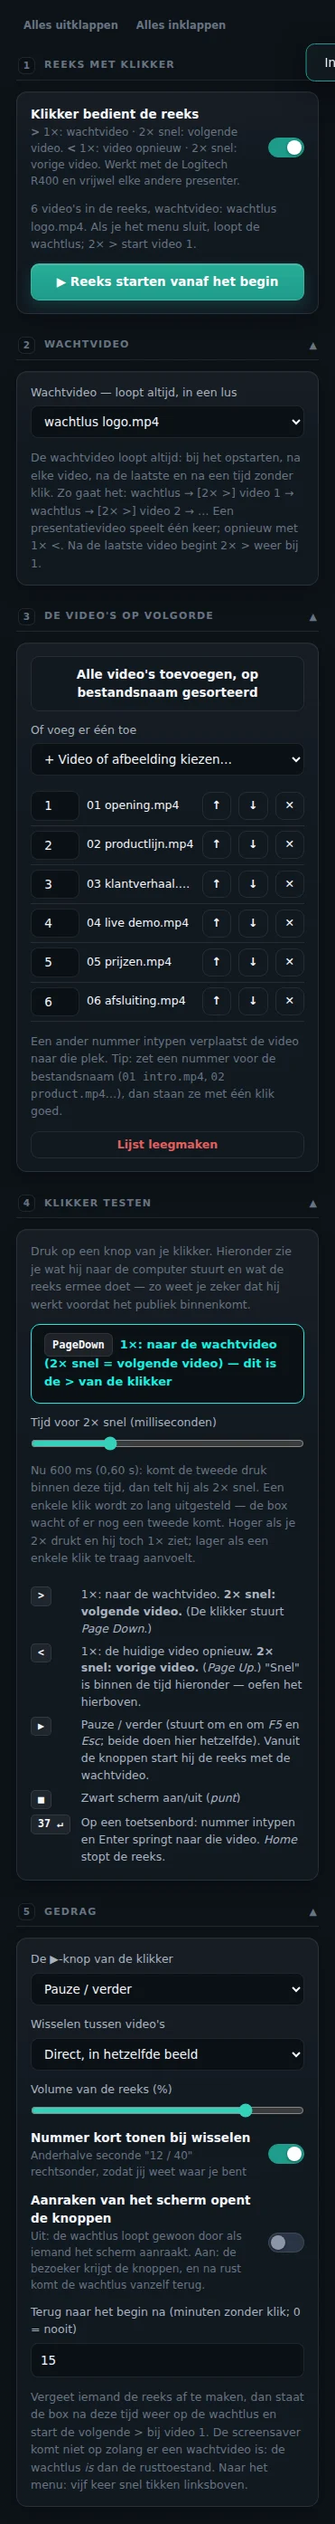
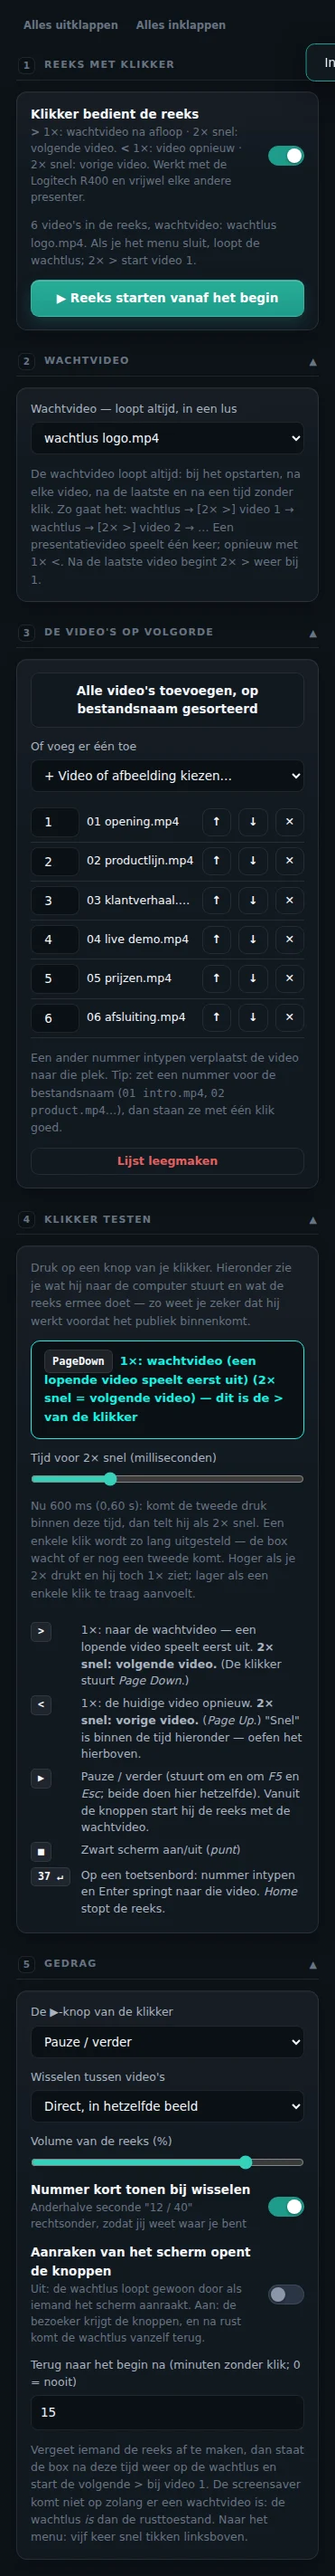
v2.23.0: wachtvideo pas na afloop, naadloos op het laatste beeld
Melding: de wachtvideo leek op de achtergrond door te draaien en startte
voordat de video afgelopen was. Hij draaide niet echt mee (in de test staat
hij stil op beeld 0 zolang een video speelt), maar hij kwam wel voortijdig in
beeld: 1× > knipte een lopende video af, en een dubbele klik die net te traag
was telde als twee keer 1×. Bij video's die gemaakt zijn om naadloos in de
wachtlus over te lopen is dat precies fout.

- 1× > onderbreekt een lopende video nooit meer: hij speelt uit en loopt dan
  over in de wachtvideo. Staat hij op pauze, dan speelt hij verder.
- De time-out "terug naar het begin" wacht ook tot een lopende video klaar is
  (eerder kon een video langer dan de time-out worden afgeknipt).
- De wissel naar de wachtvideo gebeurt op het laatste beeld zelf, bewaakt met
  requestVideoFrameCallback. De browser meldt 'ended' pas een paar beeldjes
  later en houdt zolang het laatste beeld vast — bij een naadloze overgang een
  zichtbare hapering. 'ended' blijft het vangnet. Gemeten: tussen het laatste
  videobeeld en de wachtlus zit precies één beeldje (33 ms bij 30 fps), het
  eerste beeld van de wachtlus.
- Deze wissel is altijd hard, ook als "zachte overgang" is ingesteld; een
  overvloeier verstoort de aansluiting.
- Een seconde voor het einde wordt de wachtvideo nog eens op beeld 0 gezet,
  zodat een minutenlang gepauzeerde speler wakker is. De Windows-app en beide
  startbestanden krijgen --disable-media-suspend, zodat gepauzeerde spelers
  niet inslapen.
[…]

diff --git a/docs/handleiding/index.html b/docs/handleiding/index.html
@@ -289,7 +289,7 @@ header.cover{padding-block:88px 8px}
   <b>wat</b> het doet, <b>waar</b> het staat en <b>waarom</b> het er zo uitziet.
   Alle afbeeldingen komen uit de draaiende software, niet uit een ontwerp.</p>
   <div class="meta">
-    <span>Versie 2.22.0</span><span>23 hoofdstukken</span><span>33 schermafbeeldingen</span>
+    <span>Versie 2.23.0</span><span>23 hoofdstukken</span><span>33 schermafbeeldingen</span>
     <span>Nederlands</span>
   </div>
 </header>
@@ -1444,7 +1444,7 @@ header.cover{padding-block:88px 8px}
         <text x="226" y="112">vanzelf</text><text x="458" y="112">vanzelf</text>
       </g>
       <text x="14" y="150" font-family="IBM Plex Sans, sans-serif" font-size="12" fill="currentColor" opacity=".7">
-        1× &gt; = terug naar de wachtvideo · 1× &lt; = video opnieuw · 2× &lt; = vorige video.
+        1× &gt; = wachtvideo na afloop · 1× &lt; = video opnieuw · 2× &lt; = vorige video.
       </text>
     </svg>
   </div>
@@ -1459,8 +1459,9 @@ header.cover{padding-block:88px 8px}
     <thead><tr><th>Knop</th><th>Stuurt</th><th>Wat de reeks ermee doet</th></tr></thead>
     <tbody>
       <tr><td><b>&gt;</b> (rechts)</td><td><code>Page Down</code></td>
-        <td><b>1&times;: naar de wachtvideo.</b> Loopt er een video, dan stopt die en komt de
-        wachtlus. <b>2&times; snel: volgende video.</b></td></tr>
+        <td><b>1&times;: wachtvideo.</b> Een lopende video wordt nooit onderbroken: hij speelt
+        uit en loopt dan naadloos over in de wachtlus. Staat hij op pauze, dan speelt hij verder.
+        <b>2&times; snel: volgende video.</b></td></tr>
       <tr><td><b>&lt;</b> (links)</td><td><code>Page Up</code></td>
         <td><b>1&times;: de huidige video opnieuw</b> — of, op de wachtvideo, de video die net
         speelde. <b>2&times; snel: vorige video.</b></td></tr>
@@ -1487,7 +1488,7 @@ header.cover{padding-block:88px 8px}
 
   <div class="split">
     <figure><div class="panelshot tall">
-      <img src="img/paneel-reeks.webp" alt="Het paneel Reeks en klikker" width="371" height="2789" loading="lazy">
+      <img src="img/paneel-reeks.webp" alt="Het paneel Reeks en klikker" width="371" height="2846" loading="lazy">
     </div></figure>
     <div class="tw"><table>
       <thead><tr><th>Veld</th><th>Wat het doet</th><th>Waarom</th></tr></thead>
@@ -1518,7 +1519,9 @@ header.cover{padding-block:88px 8px}
           Een enkele klik wordt zo lang uitgesteld.</td></tr>
         <tr><td>De &#9654;-knop</td><td>Pauze / verder, of reeks stoppen.</td>
           <td>Smaak: wie lange video's heeft, wil kunnen pauzeren.</td></tr>
-        <tr><td>Wisselen</td><td>Direct, of met een zachte overgang van 0,3 s.</td>
+        <tr><td>Wisselen</td><td>Direct, of met een zachte overgang van 0,3 s. Geldt voor wat
+          je met de klikker doet; van een video naar de wachtlus is het altijd een harde,
+          beeldexacte wissel.</td>
           <td>Direct is het snelst; zacht oogt rustiger op een holobox.</td></tr>
         <tr><td>Volume van de reeks</td><td>0 tot 100 %, maal het hoofdvolume.</td>
           <td>Knopvideo's spelen standaard zonder geluid; een presentatie wil je juist
@@ -1531,7 +1534,8 @@ header.cover{padding-block:88px 8px}
           de wachtlus vanzelf terug.</td><td>Aan als de box naast je presentatie ook door
           bezoekers bediend mag worden.</td></tr>
         <tr><td>Terug naar het begin na … minuten</td><td>Zonder klik staat de box na deze tijd
-          weer op de wachtlus, en de volgende &gt; start video 1. Standaard 15; 0 = nooit.</td>
+          weer op de wachtlus, en de volgende 2&times; &gt; start video 1 — maar nooit midden in
+          een video: een lopende video speelt eerst uit. Standaard 15; 0 = nooit.</td>
           <td>Vergeet iemand de reeks af te maken, dan begint de volgende presentator gewoon
           bij het begin.</td></tr>
       </tbody>
@@ -1546,7 +1550,7 @@ header.cover{padding-block:88px 8px}
   <div class="tw"><table>
     <thead><tr><th>Knop</th><th>1&times;</th><th>2&times; snel</th></tr></thead>
     <tbody>
-      <tr><td><b>&gt;</b></td><td>Naar de wachtvideo</td><td>Volgende video</td></tr>
+      <tr><td><b>&gt;</b></td><td>Wachtvideo — na afloop van een lopende video</td><td>Volgende video</td></tr>
       <tr><td><b>&lt;</b></td><td>Huidige video opnieuw</td><td>Vorige video</td></tr>
     </tbody>
   </table></div>
@@ -1555,9 +1559,9 @@ header.cover{padding-block:88px 8px}
   enkele klik meteen uitvoeren en bij een tweede klik alsnog omschakelen — zou het publiek
   een flits van de wachtvideo laten zien, of een video die even opnieuw begint.</p>
   <p class="measure">Klikken tellen in paren. Vier keer snel op &gt; is twee keer
-  &quot;volgende&quot;; drie keer snel is één keer &quot;volgende&quot; en daarna, voor de
-  losse derde klik, de wachtvideo. Klik je eerst &lt; en meteen daarna &gt;, dan telt de
-  &lt; als een enkele klik.</p>
+  &quot;volgende&quot;; drie keer snel is één keer &quot;volgende&quot; plus een losse derde
+  klik, die de net gestarte video niet onderbreekt. Klik je eerst &lt; en meteen daarna
+  &gt;, dan telt de &lt; als een enkele klik.</p>
 
   <div class="note"><span class="t">Werkt 2&times; niet? Meet je eigen tempo</span>
     <p>Druk onder <b>Klikker testen</b> twee keer op &gt;. Bij de tweede druk staat er na hoeveel
@@ -1582,6 +1586,34 @@ header.cover{padding-block:88px 8px}
   laatste video begint <b>2&times; &gt;</b> weer bij video 1.</p>
   <p class="measure">Naar het menu: <b>vijf keer snel tikken linksboven</b> — dat werkt ook op
   de wachtlus. Sluit je het menu, dan loopt de lus weer.</p>
+
+  <h3>Naadloos van video naar wachtlus</h3>
+  <p class="measure">De video's kunnen zo gemaakt worden dat het einde van een
+  presentatievideo naadloos overloopt in het begin van de wachtlus. De box zorgt dat die
+  aansluiting ook op het scherm klopt:</p>
+  <ul class="legend">
+    <li><span class="n">1</span><span><b>Nooit onderbroken</b> <span class="q">— de wachtvideo
+      komt pas als de video helemaal afgelopen is. Ook 1&times; &gt; en de time-out laten een
+      lopende video eerst uitspelen.</span></span></li>
+    <li><span class="n">2</span><span><b>Op het laatste beeld</b> <span class="q">— de browser
+      meldt &quot;afgelopen&quot; normaal pas een paar beeldjes later, en in die tijd staat het
+      laatste beeld stil. De box kijkt per beeld mee en wisselt op het laatste beeld zelf.
+      Gemeten: tussen het laatste videobeeld en de wachtlus zit precies één beeldje (33 ms bij
+      30 beelden per seconde) — het eerste beeld van de wachtlus.</span></span></li>
+    <li><span class="n">3</span><span><b>Altijd vanaf beeld 0, altijd hard</b> <span class="q">—
+      de wachtlus begint elke keer bij het begin, en deze wissel is nooit een zachte overgang,
+      ook als die bij Wisselen is ingesteld: een overvloeier zou de aansluiting juist
+      verstoren.</span></span></li>
+    <li><span class="n">4</span><span><b>Wakker gehouden</b> <span class="q">— een video die
+      minutenlang gepauzeerd en onzichtbaar staat, legt de browser te slapen. Een seconde voor
+      het einde zet de box de wachtlus nog eens op beeld 0, zodat hij wakker is als hij moet
+      beginnen. De Windows-app en de startbestanden zetten dat inslapen bovendien helemaal
+      uit.</span></span></li>
+  </ul>
+  <div class="note"><span class="t">Voor wie de video's maakt</span>
+    <p>Laat het laatste beeld van elke presentatievideo aansluiten op het eerste beeld van de
+    wachtlus, en gebruik voor alle video's hetzelfde beeldformaat en dezelfde beeldsnelheid.
+    Dan ziet de bezoeker één doorlopend beeld.</p></div>
 
   <h3>Waarom het echt direct is</h3>
   <p class="measure">Een 4K-bestand pas openen op het moment van de klik geeft een zwart
@@ -2485,8 +2517,9 @@ header.cover{padding-block:88px 8px}
         de ontvanger zit er niet in.</td><td>Reeks &amp; klikker → <b>Klikker testen</b>: zie je
         daar niets binnenkomen, dan ligt het aan de ontvanger of de batterijen. Zie je wel iets,
         zet dan de schakelaar aan en sluit het menu.</td></tr>
-      <tr><td>&gt; gaat naar de wachtvideo in plaats van naar de volgende</td><td>De tweede klik
-        kwam te laat; de box zag twee losse klikken.</td><td>Druk onder Reeks &amp; klikker
+      <tr><td>2&times; &gt; doet niets of de video speelt gewoon uit</td><td>De tweede klik
+        kwam te laat; de box zag twee losse klikken, en een losse klik onderbreekt een lopende
+        video niet.</td><td>Druk onder Reeks &amp; klikker
         &rarr; <b>Klikker testen</b> twee keer op &gt;: je ziet na hoeveel milliseconden de
         tweede druk kwam. Klik op <b>Grens op mijn tempo zetten</b>, of zet de schuif
         <b>Tijd voor 2&times; snel</b> hoger.</td></tr>
@@ -2545,7 +2578,7 @@ header.cover{padding-block:88px 8px}
     <dt>5× tikken in de hoek linksboven</dt><dd>Opent het menu ook als de bedieningsknoppen verborgen zijn.</dd>
     <dt>Naar rechts vegen</dt><dd>Vorige scène, als “Vegen om terug te gaan” aanstaat.</dd>
     <dt>Hand omhoog</dt><dd>Terug naar het menu, als het handgebaar aanstaat (hoofdstuk 14).</dd>
-    <dt>Page Down / &gt; op de klikker</dt><dd>1&times;: naar de wachtvideo · 2&times; snel: volgende video (hoofdstuk 13).</dd>
+    <dt>Page Down / &gt; op de klikker</dt><dd>1&times;: wachtvideo na afloop · 2&times; snel: volgende video (hoofdstuk 13).</dd>
     <dt>Page Up / &lt; op de klikker</dt><dd>1&times;: huidige video opnieuw · 2&times; snel: vorige video.</dd>
     <dt>F5 of Esc / &#9654;</dt><dd>Pauze / verder in de reeks; vanuit de knoppen start de reeks.</dd>
     <dt>. (punt) / &#9632;</dt><dd>Zwart scherm aan/uit tijdens de reeks.</dd>
@@ -2598,7 +2631,7 @@ header.cover{padding-block:88px 8px}
 
   <hr class="soft">
   <p class="measure" style="color:var(--ink-3);font-size:14.5px">
-    Dit boek hoort bij versie 2.22.0 van de HereWeHolo Experience Manager. De bewegingswetten
+    Dit boek hoort bij versie 2.23.0 van de HereWeHolo Experience Manager. De bewegingswetten
     achter Motion staan uitgeschreven in <code>docs/MOTION.md</code>; het systeem zelf kun je
     in werking zien in <code>motion/motion-system.html</code>.
   </p>

diff --git a/studio/index.html b/studio/index.html
@@ -1730,7 +1730,7 @@
     <div class="card">
       <div class="toggle-row">
         <div><div class="t-label">Klikker bedient de reeks</div>
-          <div class="t-sub"><b>&gt;</b> 1&times;: wachtvideo &middot; 2&times; snel: volgende video.
+          <div class="t-sub"><b>&gt;</b> 1&times;: wachtvideo na afloop &middot; 2&times; snel: volgende video.
           <b>&lt;</b> 1&times;: video opnieuw &middot; 2&times; snel: vorige video.
           Werkt met de Logitech R400 en vrijwel elke andere presenter.</div></div>
         <label class="switch"><input type="checkbox" id="rkAan"><i></i></label>
@@ -1771,7 +1771,8 @@
       </label>
       <p class="note" id="rkDubbelNote"></p>
       <div class="rk-kaart">
-        <kbd>&gt;</kbd><span>1&times;: naar de wachtvideo. <b>2&times; snel: volgende video.</b>
+        <kbd>&gt;</kbd><span>1&times;: naar de wachtvideo &mdash; een lopende video speelt eerst uit.
+          <b>2&times; snel: volgende video.</b>
           (De klikker stuurt <i>Page Down</i>.)</span>
         <kbd>&lt;</kbd><span>1&times;: de huidige video opnieuw. <b>2&times; snel: vorige video.</b>
           (<i>Page Up</i>.) &quot;Snel&quot; is binnen de tijd hieronder &mdash; oefen het hierboven.</span>
@@ -2200,7 +2201,7 @@
 <script>
 'use strict';
 
-const APP_VERSION = '2.22.0';
+const APP_VERSION = '2.23.0';
 
 /* ================= Feature-flags (masterspec §0) ================= */
 // Actieve opties uit de genummerde catalogus; nieuwe nummers hier aanzetten.
@@ -10318,8 +10319,8 @@ const Reeks = (() => {
     return m;
   }
 
-  function toon(el) {
-    laag.classList.toggle('fade', cfg().overgang === 'fade');
+  function toon(el, direct = false) {
+    laag.classList.toggle('fade', !direct && cfg().overgang === 'fade');
     for (const v of [wachtEl, ...slots, img]) {
       if (v === el) continue;
       const wasVoor = v.classList.contains('voor');
@@ -10334,8 +10335,8 @@ const Reeks = (() => {
     el.classList.add('voor');
   }
 
-  function wachtNaarBegin() {
-    try { if (wachtEl.currentTime !== 0) wachtEl.currentTime = 0; } catch {}
+  function wachtNaarBegin(altijd = false) {
+    try { if (altijd || wachtEl.currentTime !== 0) wachtEl.currentTime = 0; } catch {}
   }
 
   function geluid(v) {
@@ -10380,17 +10381,18 @@ const Reeks = (() => {
     toon(slot);
     fase = 'video';
     start(slot);
+    bewaakEinde(slot);
     voorbereiden(idx);
   }
 
-  function toonWacht() {
+  function toonWacht(direct = false) {
     const m = zorgWacht();
     if (!m) return false;
     wachtEl.loop = true;
     geluid(wachtEl);
     // Altijd vanaf het begin (meestal staat hij er al, zie toon()).
     if (!wachtEl.classList.contains('voor')) wachtNaarBegin();
-    toon(wachtEl);
+    toon(wachtEl, direct);
     fase = 'wacht';
     start(wachtEl);
     return true;
@@ -10398,18 +10400,60 @@ const Reeks = (() => {
 
   // Een presentatievideo speelt één keer. Daarna altijd de wachtvideo; is er
   // geen, dan blijft het laatste beeld staan tot de volgende klik.
-  function afgelopen() {
-    if (toonWacht()) return;
+  /* De video's zijn gemaakt om naadloos in de wachtvideo over te lopen: het
+     laatste beeld van een presentatievideo sluit aan op het eerste van de
+     wachtlus. Daarom is deze overgang altijd een harde wissel (nooit de zachte
+     overgang uit de instellingen), en altijd naar beeld 0 van de wachtvideo. */
+  let overgangen = { vroeg: 0, einde: 0 };   // hoe de wissel gebeurde (voor de test)
+  function afgelopen(hoe = 'einde') {
+    overgangen[hoe] = (overgangen[hoe] || 0) + 1;
+    if (toonWacht(true)) return;
     fase = 'af';
   }
 
+  /* Bewaking van het laatste beeld. De browser meldt 'ended' pas een paar
+     beeldjes nadat het laatste beeld getoond is; al die tijd staat dat beeld
+     stil, en bij een naadloze overgang zie je dat als een hapering. Daarom
+     kijken we per getoond beeld (requestVideoFrameCallback) mee en wisselen we
+     op het laatste beeld zelf. 'ended' blijft het vangnet, bijvoorbeeld voor
+     bestanden waarvan de lengte niet bekend is.
+
+     Ongeveer een seconde voor het einde zetten we de wachtvideo nog eens op
+     beeld 0. Een video die minutenlang gepauzeerd en onzichtbaar staat, legt
+     de browser "te slapen"; hem dan pas wekken kost precies de tijd die je bij
+     de wissel niet hebt. Opnieuw op 0 zetten maakt hem op tijd wakker. */
+  function bewaakEinde(slot) {
+    if (typeof slot.requestVideoFrameCallback !== 'function') return;
+    const mijnPos = pos;
+    let vorige = null, stap = 1 / 30, gewekt = false;
+    const kijk = (nu, meta) => {
+      if (!slot.classList.contains('voor') || fase !== 'video' || pos !== mijnPos) return;
+      const ps = playSettings(lijst()[pos - 1]);
+      const einde = ps.trimEnd > 0 ? ps.trimEnd : slot.duration;
+      const t = meta.mediaTime;
+      if (vorige != null && t > vorige && t - vorige < 0.2) stap = t - vorige;   // beeldduur meten
+      vorige = t;
+      if (isFinite(einde) && einde > 0) {
+        if (!gewekt && einde - t < 1.0) { gewekt = true; wachtNaarBegin(true); }
+        // Dit is het laatste beeld: het volgende zou voorbij het einde vallen.
+        if (t + stap * 1.5 >= einde) {
+          slot.pause();
+          afgelopen('vroeg');
+          return;
+        }
+      }
+      slot.requestVideoFrameCallback(kijk);
+    };
+    slot.requestVideoFrameCallback(kijk);
+  }
+
   for (const s of slots) {
-    s.addEventListener('ended', () => { if (s.classList.contains('voor') && fase === 'video') afgelopen(); });
-    // Bijsnijden uit het Media-tabblad geldt ook hier: stop op het ingestelde eindpunt.
+    s.addEventListener('ended', () => { if (s.classList.contains('voor') && fase === 'video') afgelopen('einde'); });
+    // Vangnet voor bijsnijden zonder beeldbewaking: stop op het ingestelde eindpunt.
     s.addEventListener('timeupdate', () => {
       if (!s.classList.contains('voor') || fase !== 'video') return;
       const ps = playSettings(lijst()[pos - 1]);
-      if (ps.trimEnd > 0 && s.currentTime >= ps.trimEnd - 0.05) { s.pause(); afgelopen(); }
+      if (ps.trimEnd > 0 && s.currentTime >= ps.trimEnd - 0.05) { s.pause(); afgelopen('einde'); }
     });
   }
 
@@ -10440,9 +10484,11 @@ const Reeks = (() => {
     hartslag = setInterval(() => {
       lastInteraction = Date.now();                        // geen screensaver zolang de reeks loopt
       const min = Number(cfg().terugNaMin) || 0;
-      if (min > 0 && Date.now() - laatsteKlik > min * 60000) {
+      // Vergeten te stoppen: terug naar het begin — maar niet midden in een video.
+      const loopt = fase === 'video' && slots.some((x) => x.classList.contains('voor') && !x.paused);
+      if (min > 0 && !loopt && Date.now() - laatsteKlik > min * 60000) {
         laatsteKlik = Date.now();
-        if (rustModus()) naarBegin(); else stop();         // vergeten te stoppen: terug naar het begin
+        if (rustModus()) naarBegin(); else stop();
       }
     }, 5000);
     /* In een gewone browser met volledig scherm zou de Esc van de ▶-knop het
@@ -10533,11 +10579,19 @@ const Reeks = (() => {
     if (!toonWacht()) toonNummer(`0 / ${lijst().length}`);
   }
 
+  /* 1× >: de wachtvideo — maar nooit midden in een video. Een lopende
+     presentatievideo speelt uit en loopt dan vanzelf, naadloos, over in de
+     wachtvideo. Staat hij op pauze, dan gaat hij verder tot het einde. */
   function naarWacht() {
     if (!aanzetten('hervat')) return;
     zwartZet(false);
-    // Zonder wachtvideo is er geen wachtstand; dan is > gewoon de volgende.
-    if (!toonWacht()) volgendeVideo();
+    if (!zorgWacht()) return volgendeVideo();              // geen wachtvideo: dan is > gewoon de volgende
+    if (fase === 'wacht') return;
+    if (fase === 'video') {
+      const v = slots.find((x) => x.classList.contains('voor'));
+      if (v) { if (v.paused) start(v); return; }           // video loopt (weer): wachtvideo volgt na afloop
+    }
+    toonWacht();                                           // afbeelding, of nog niets gespeeld
   }
 
   function enkel(richting) { if (richting === 'volgende') naarWacht(); else opnieuw(); }
@@ -10611,7 +10665,7 @@ const Reeks = (() => {
   // en spatie zijn daar voor gewone toetsenbordbediening.
   const VANUIT_MENU = new Set(['PageDown', 'PageUp', 'F5', 'Escape']);
   const UITLEG = {
-    volgende: '1×: naar de wachtvideo', vorige: '1×: video opnieuw', play: '▶-knop',
+    volgende: '1×: wachtvideo (een lopende video speelt eerst uit)', vorige: '1×: video opnieuw', play: '▶-knop',
     zwart: 'Zwart scherm aan/uit', stop: 'Reeks stoppen', enter: 'Naar het ingetypte nummer',
     cijfer: 'Nummer intypen',
   };
@@ -10703,6 +10757,7 @@ const Reeks = (() => {
   return {
     volgendeVideo, vorigeVideo, opnieuw, naarWacht, playKnop, zwartWissel, stop,
     get dubbelMs() { return dubbelMs(); },
+    get overgangen() { return { ...overgangen }; },
     // "Reeks starten" in het menu: vanaf het begin, met de wachtvideo.
     vanafBegin() {
       if (!aanzetten('begin')) return false;

diff --git a/desktop/main.js b/desktop/main.js
@@ -80,6 +80,11 @@ function log(level, event, data = {}) {
    mogelijk aanzetten; Chromium valt zelf terug op CPU waar nodig. */
 
 app.commandLine.appendSwitch('autoplay-policy', 'no-user-gesture-required');
+// Gepauzeerde, onzichtbare video's niet laten inslapen. De reeks met klikker
+// houdt de wachtvideo en de volgende video gepauzeerd klaar op hun eerste
+// beeld; een ingeslapen speler wekken kost een paar honderd ms, en dat is
+// precies de hapering die je bij een naadloze overgang niet wilt.
+app.commandLine.appendSwitch('disable-media-suspend');
 app.commandLine.appendSwitch('ignore-gpu-blocklist');
 app.commandLine.appendSwitch('enable-gpu-rasterization');
 app.commandLine.appendSwitch('enable-zero-copy');
